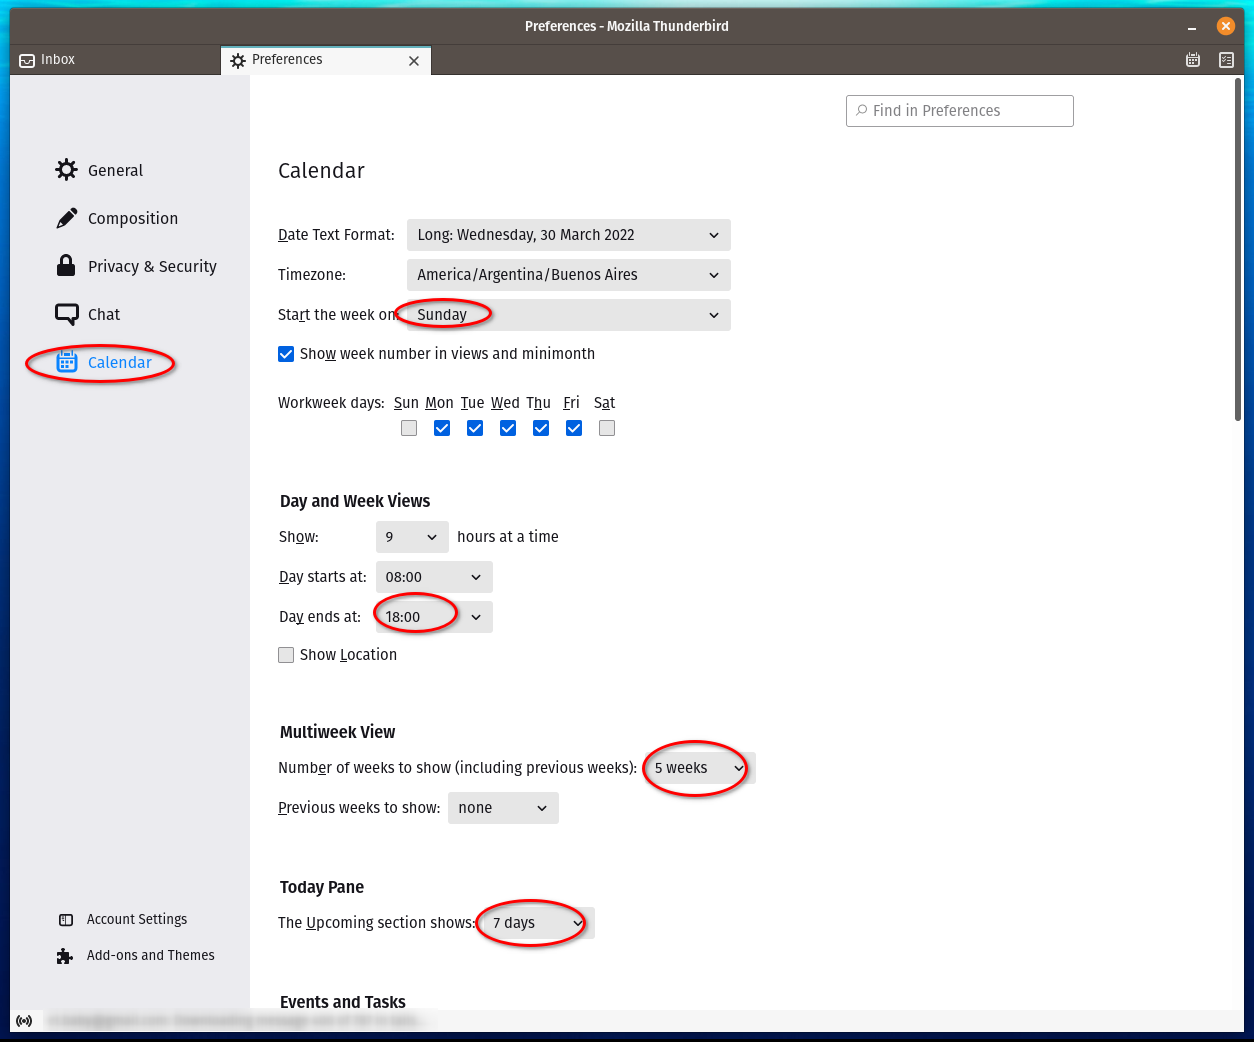
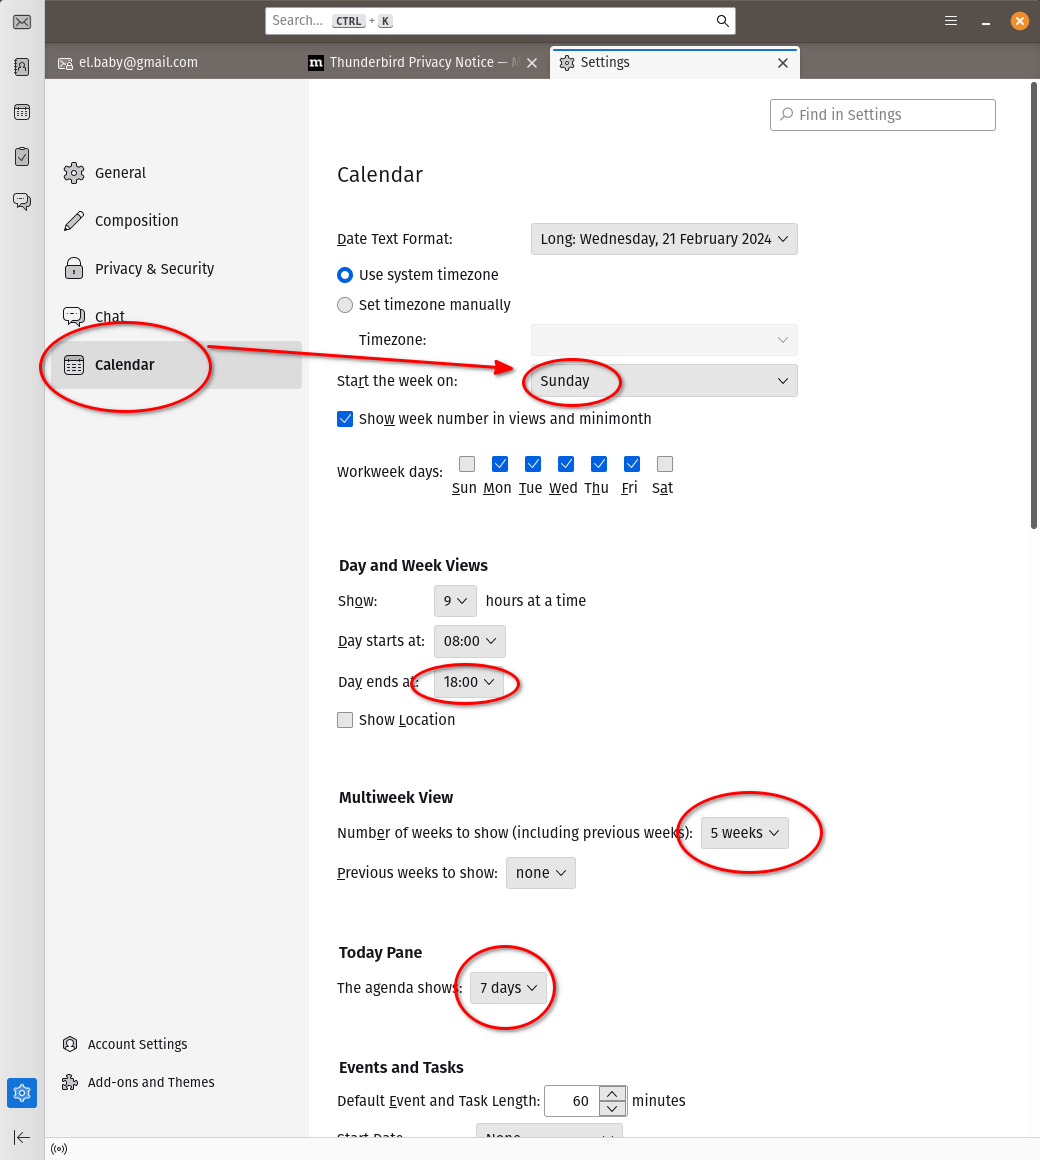
actualizo imágenes de configuraciones del calendario

diff --git a/Linux/ThunderbirdFlatpak.md b/Linux/ThunderbirdFlatpak.md
@@ -151,19 +151,19 @@ prefieras:
 
 Una vez validado el 2° factor aparecerá el pedido de permisos necesarios:
 
-![Account Settings/Gmail Allow Google Account Access](img/thunderbird-37-google_oauth_allow.png)
+![Account Setup/Allow Google Account Access](img/thunderbird-37-google_oauth_allow.png)
 
 Conectar libreta de direcciones y calendario de Google:
 
-![Account Settings/Google Address Books & Calendars](img/thunderbird-31-accountsettings_gmail_addressbook_calendar.png)
+![Account Setup/Google Address Books & Calendars](img/thunderbird-38-google_linked_services.png)
 
-![Account Settings/Google Calendar Refresh Period](img/thunderbird-32-accountsettings_gmail_calendar_refresh.png)
+![Account Setup/Google Calendar Refresh Period](img/thunderbird-39-google_linked_services-calendar_refresh.png)
 
-![Account Settings/Google Address Books & Calendars](img/thunderbird-33-accountsettings_gmail_addressbook_calendar.png)
+![Account Setup/Google Address Books & Calendars](img/thunderbird-40-google_linked_services.png)
 
 Configurar las preferencias del Calendario:
 
-![Preferences](img/thunderbird-09-preferences.png)
+![Settings](img/thunderbird-08-settings.png)
 
 ![Preferences/Calendar](img/thunderbird-34-preferences_calendar.png)
 
